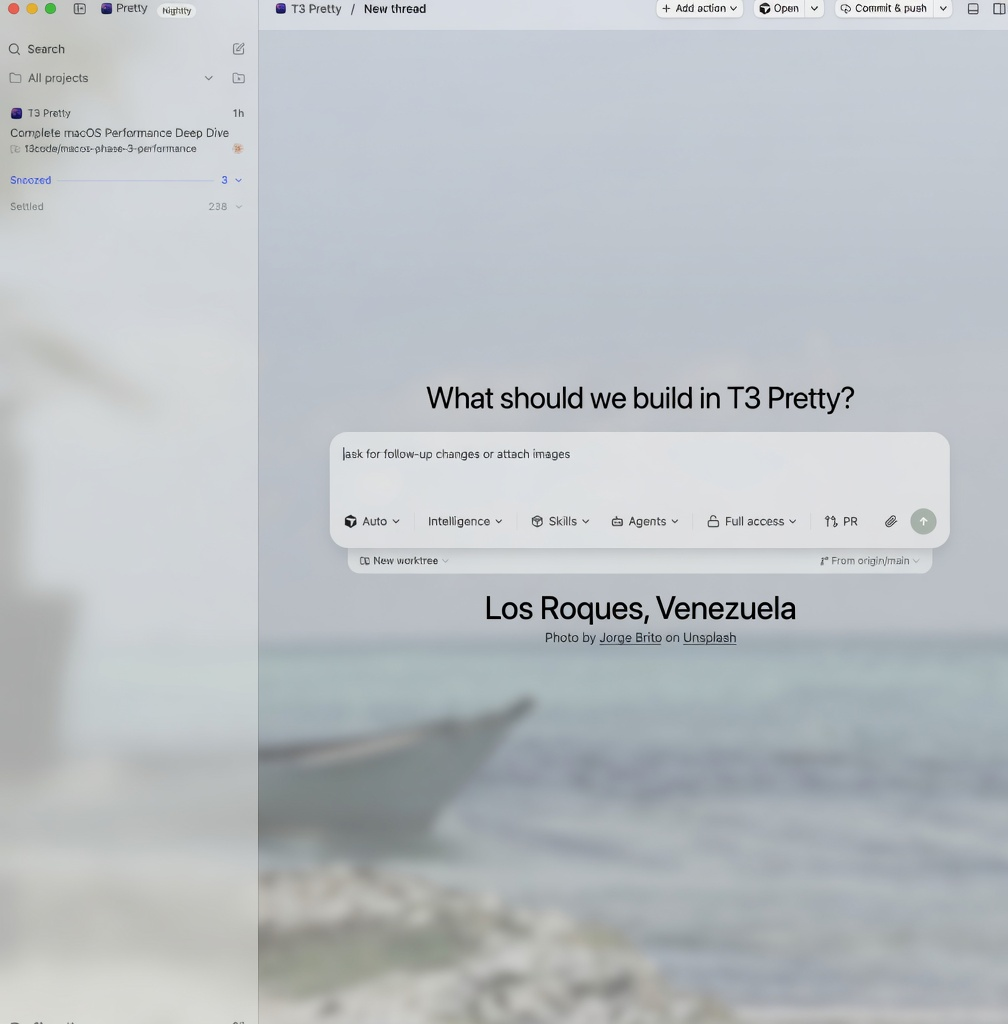
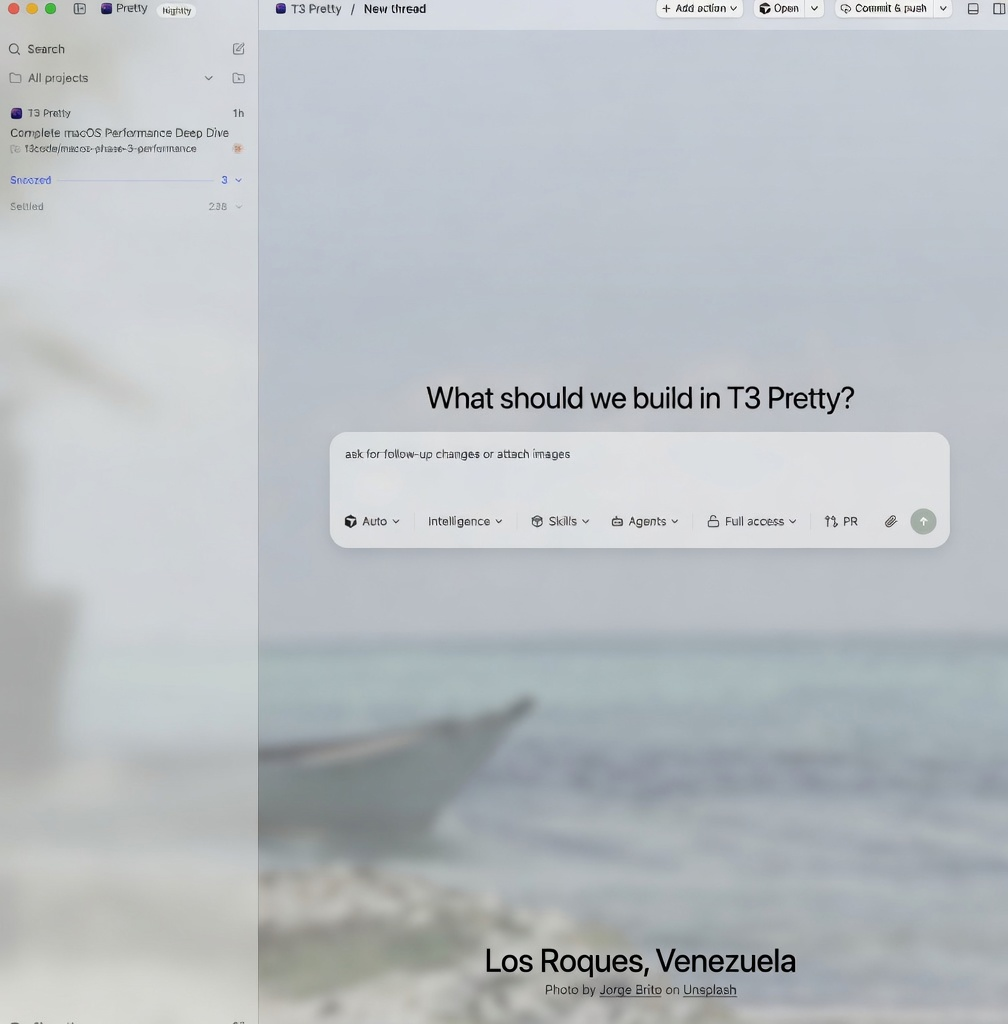
fix(web): dock World Scenery credits to the hero footer
The place title was still stacked on the centered composer. New threads
now leave the chat box in the middle and sit the location name in the
bottom band of the photo.

Model: grok-4.6. Harness: T3 Code.

Changed region(s): [[0.3383, 0.5312, 0.9226, 0.625], [0.4921, 0.9062, 0.7996, 1.0]]

diff --git a/apps/web/src/components/ChatView.tsx b/apps/web/src/components/ChatView.tsx
@@ -6648,20 +6648,27 @@ function ChatViewContent(props: ChatViewProps) {
               )}
             </div>
 
-            {/* Input bar — centered hero while a draft has no messages, docked at the bottom otherwise */}
+            {/* Input bar — centered hero while a draft has no messages, docked at the bottom otherwise.
+                World Scenery new threads use a column so the place credit can sit in the lower
+                band instead of stacking on the composer. */}
             <div
               ref={setComposerOverlayElement}
               data-chat-composer-overlay="true"
               data-composer-placement={isDraftHeroState ? "hero" : "docked"}
               className={
-                isDraftHeroState
-                  ? "pointer-events-none absolute inset-0 z-20 flex items-center"
-                  : "pointer-events-none absolute inset-x-0 bottom-0 z-20 pt-1.5 sm:pt-2"
+                isDraftHeroState && sceneryThemeActive
+                  ? "pointer-events-none absolute inset-0 z-20 flex flex-col"
+                  : isDraftHeroState
+                    ? "pointer-events-none absolute inset-0 z-20 flex items-center"
+                    : "pointer-events-none absolute inset-x-0 bottom-0 z-20 pt-1.5 sm:pt-2"
               }
             >
+              {isDraftHeroState && sceneryThemeActive ? (
+                <div aria-hidden className="min-h-0 flex-1" />
+              ) : null}
               <div
                 ref={attachDraftHeroTransitionGroupRef}
-                className="w-full ps-[calc(env(safe-area-inset-left)+0.75rem)] pe-[calc(env(safe-area-inset-right)+0.75rem)] sm:ps-[calc(env(safe-area-inset-left)+1.25rem)] sm:pe-[calc(env(safe-area-inset-right)+1.25rem)]"
+                className="w-full shrink-0 ps-[calc(env(safe-area-inset-left)+0.75rem)] pe-[calc(env(safe-area-inset-right)+0.75rem)] sm:ps-[calc(env(safe-area-inset-left)+1.25rem)] sm:pe-[calc(env(safe-area-inset-right)+1.25rem)]"
               >
                 <div className="pointer-events-auto relative z-10">
                   {isDraftHeroState ? (
@@ -6833,16 +6840,29 @@ function ChatViewContent(props: ChatViewProps) {
                         </div>
                       </div>
                     </div>
-                    {sceneryThemeActive ? (
-                      <div ref={bindSceneryPlaceSlot} data-scenery-place-slot="" />
+                    {!(isDraftHeroState && sceneryThemeActive) ? (
+                      <>
+                        {sceneryThemeActive ? (
+                          <div ref={bindSceneryPlaceSlot} data-scenery-place-slot="" />
+                        ) : null}
+                        <div
+                          aria-hidden
+                          className="h-[calc(env(safe-area-inset-bottom)+1rem)] sm:h-[calc(env(safe-area-inset-bottom)+1.25rem)]"
+                        />
+                      </>
                     ) : null}
-                    <div
-                      aria-hidden
-                      className="h-[calc(env(safe-area-inset-bottom)+1rem)] sm:h-[calc(env(safe-area-inset-bottom)+1.25rem)]"
-                    />
                   </div>
                 </div>
               </div>
+              {isDraftHeroState && sceneryThemeActive ? (
+                <div className="flex min-h-0 flex-1 flex-col justify-end ps-[calc(env(safe-area-inset-left)+0.75rem)] pe-[calc(env(safe-area-inset-right)+0.75rem)] pt-10 sm:ps-[calc(env(safe-area-inset-left)+1.25rem)] sm:pe-[calc(env(safe-area-inset-right)+1.25rem)]">
+                  <div ref={bindSceneryPlaceSlot} data-scenery-place-slot="" />
+                  <div
+                    aria-hidden
+                    className="h-[calc(env(safe-area-inset-bottom)+1rem)] sm:h-[calc(env(safe-area-inset-bottom)+1.25rem)]"
+                  />
+                </div>
+              ) : null}
             </div>
 
             {draftHeroHeadlineGhost && sceneryThemeActive ? (

diff --git a/apps/web/src/scenery/sceneryDomContract.test.ts b/apps/web/src/scenery/sceneryDomContract.test.ts
@@ -158,16 +158,11 @@ describe("scenery attribution contract", () => {
     );
   });
 
-  it("keeps the place credit below the composer glass, not above it", () => {
-    const glass = chatViewSource.indexOf("chat-composer-glass-shell");
-    const slot = chatViewSource.indexOf('data-scenery-place-slot=""');
-    const spacer = chatViewSource.indexOf(
-      "h-[calc(env(safe-area-inset-bottom)+1rem)] sm:h-[calc(env(safe-area-inset-bottom)+1.25rem)]",
-    );
-    expect(glass).toBeGreaterThan(-1);
-    expect(slot).toBeGreaterThan(glass);
-    expect(spacer).toBeGreaterThan(slot);
-    expect(sceneryCssSource).toMatch(/\.scenery-place\s*\{[^}]*margin: 1\.15rem auto 0;/s);
+  it("pins the hero place credit to the bottom band, not the centered composer", () => {
+    expect(chatViewSource).toContain("absolute inset-0 z-20 flex flex-col");
+    expect(chatViewSource).toContain("min-h-0 flex-1 flex-col justify-end");
+    expect(chatViewSource).toContain('data-scenery-place-slot=""');
+    expect(sceneryCssSource).toMatch(/\.scenery-place\s*\{[^}]*margin: 0 auto;/s);
     expect(sceneryCssSource).toMatch(
       /\[data-composer-placement="docked"\] \.scenery-place\s*\{[^}]*margin-top: 0\.45rem;/s,
     );

diff --git a/apps/web/src/scenery/sceneryPlaceSlot.ts b/apps/web/src/scenery/sceneryPlaceSlot.ts
@@ -1,7 +1,8 @@
 /**
- * The composer cluster owns a slot below the chat box for the place name
- * and Unsplash credit. Arrival and credit render from the scenery chunk
- * and bind here so ChatView does not import the photo engine.
+ * ChatView owns a slot for the place name and Unsplash credit — the
+ * bottom band on a new-thread hero, compact under the composer once
+ * docked. Arrival and credit render from the scenery chunk and bind
+ * here so ChatView does not import the photo engine.
  */
 
 const listeners = new Set<() => void>();

diff --git a/apps/web/src/scenery/SceneryPlaceCredit.tsx b/apps/web/src/scenery/SceneryPlaceCredit.tsx
@@ -1,6 +1,8 @@
 /**
- * Location name + required Unsplash credit, portaled below the chat box.
- * Replaces the bottom-right dock pill while a thread view is open.
+ * Location name + required Unsplash credit. On a new-thread hero this
+ * sits in the bottom band of the photo; after the composer docks it
+ * sits compactly under the chat box. Replaces the bottom-right dock
+ * pill while a thread view is open.
  */
 import { useSyncExternalStore } from "react";
 import { createPortal } from "react-dom";

diff --git a/apps/web/src/scenery/scenery.css b/apps/web/src/scenery/scenery.css
@@ -532,9 +532,11 @@ html[data-scenery-arrival="reveal"] .scenery-place {
   flex-direction: column;
   align-items: center;
   gap: 0.3rem;
-  margin: 1.15rem auto 0;
+  margin: 0 auto;
   max-width: 36rem;
   text-align: center;
+  /* The composer overlay is pointer-events: none; the credit has to opt back in. */
+  pointer-events: auto;
   transition:
     margin 0.42s cubic-bezier(0.16, 1, 0.3, 1),
     gap 0.42s cubic-bezier(0.16, 1, 0.3, 1);

diff --git a/docs/user/world-scenery.md b/docs/user/world-scenery.md
@@ -9,7 +9,7 @@ the day.
 Choose the **World Scenery** theme in **Settings → Appearance**. While that theme is on:
 
 - A new thread opens in fog over the assigned place, then clears with the location name
-  settling below the chat box along with the photo credit.
+  settling near the bottom of the photo along with the photo credit.
 - **Photo blur**, **Photo presence**, **Thread motion**, and **Scenery text color** live in
   **Settings → Appearance**.
 - **Thread motion** governs the app's small entrance and press animations — arriving
